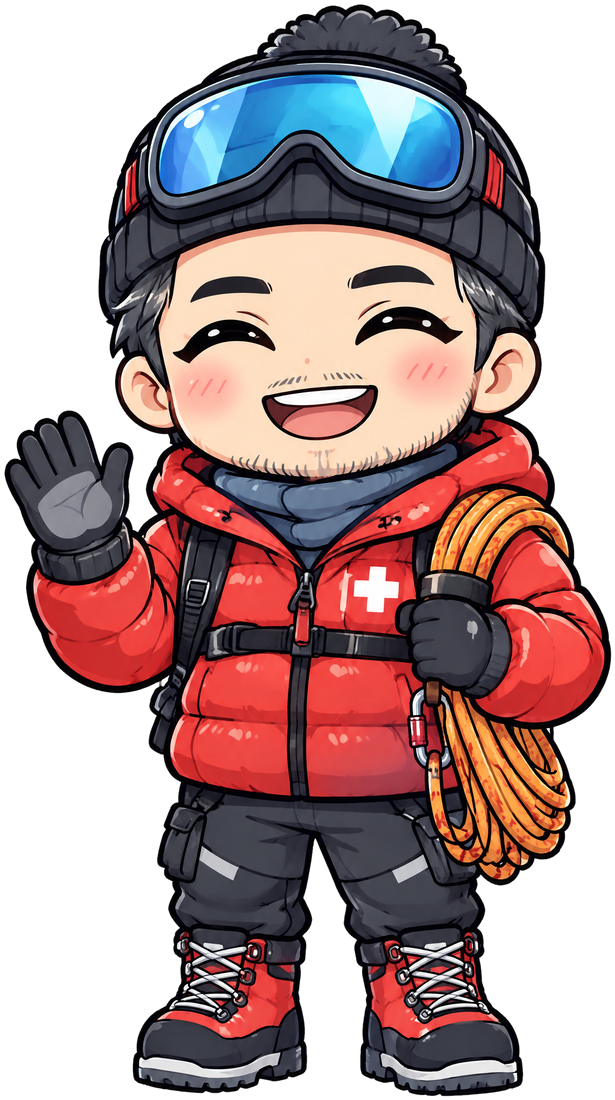
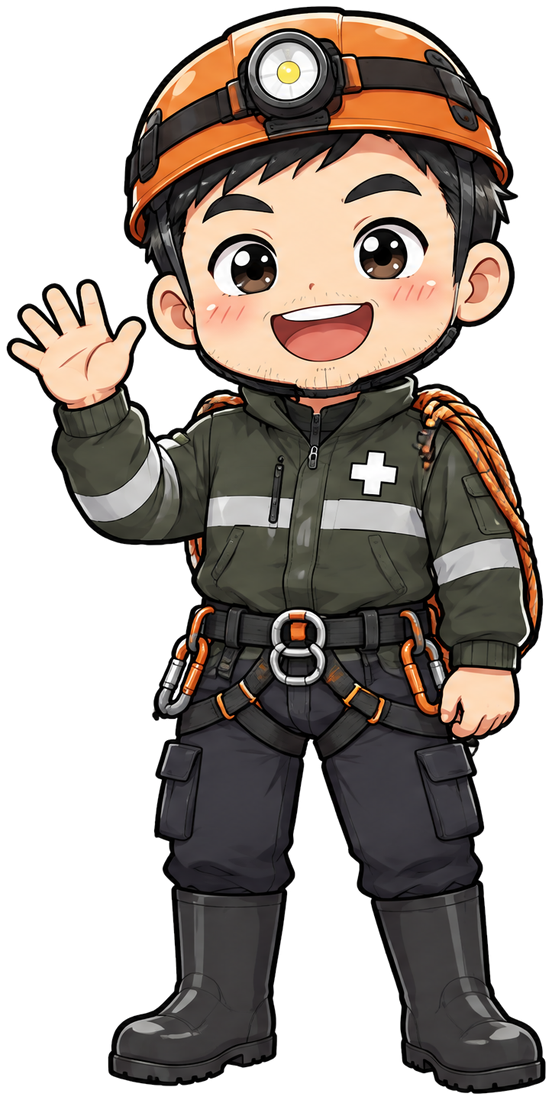
Vẽ lại chú Phong (cứu hộ hang Phong Nha), thầy hiệu trưởng (trường làng Việt Nam) và 9 nền trong địa điểm hợp Việt Nam, khớp bản đồ mới

diff --git a/hoc/KICH-BAN-PHIM-GOI-CLB.md b/hoc/KICH-BAN-PHIM-GOI-CLB.md
@@ -54,8 +54,8 @@ Chỗ cần user duyệt đánh dấu **[DUYỆT]**.
 | 4 Bến sông | **bác Ba** trưởng trạm thủy lợi & bến sông (`ba`): áo bà ba nâu, áo phao cam, nón tai bèo | luồng kênh thông thoáng, điều tiết nước kịp con nước | ghe hàng mắc kẹt, nước tràn làm trôi bè nông sản | thước đo mực nước triều dâng gần vạch đỏ |
 | 5 Nông trại hoa | **chị Lan** chủ vườn (`lan`): nón lá, áo bà ba xanh, ủng vàng, bó hoa bốn màu | hoa kịp chợ Tết | mất vụ Tết | tờ lịch đếm ngược tới Tết |
 | 6 Mỏ đá | **anh Dũng** đội trưởng mỏ (`dung`): mũ vàng có đèn, áo cam, bộ đàm | đường mỏ an toàn trước mùa mưa | thợ gặp nguy, mỏ phải đóng | mây mưa kéo gần dần |
-| 7 Hang động | **chú Phong** đội trưởng cứu hộ hang động (`phong`): áo khoác ấm chữ thập, kính bảo hộ, cuộn dây leo hang | đưa đoàn khảo sát địa chất ra khỏi hang sâu | đoàn kẹt trong vòm hang tối, nước ngầm dâng | pin bộ đàm/đèn của đoàn 80% → 15% |
-| 8 CLB | **thầy hiệu trưởng** (`thay`, lần đầu hiện hình; các mùa trước chỉ thấy thư) | ngày hội robot vẫn diễn ra | thị trấn kẹt sau bão | giờ khai mạc |
+| 7 Hang động | **chú Phong** đội trưởng cứu hộ hang động Phong Nha (`phong`): mũ leo hang cam có đèn, áo cứu hộ xanh rêu sọc phản quang chữ thập trắng, đai leo móc khoá, cuộn dây, ủng cao su (vẽ lại 1/11, bỏ áo phao đỏ + kính trượt tuyết của mùa núi tuyết cũ) | đưa đoàn khảo sát địa chất ra khỏi hang sâu | đoàn kẹt trong vòm hang tối, nước ngầm dâng | pin bộ đàm/đèn của đoàn 80% → 15% |
+| 8 CLB | **thầy hiệu trưởng** (`thay`, lần đầu hiện hình; các mùa trước chỉ thấy thư): thầy hiệu trưởng trường làng Việt Nam ~60 tuổi, tóc muối tiêu, kính tròn, sơ mi trắng cộc tay cài bút, quần âu xanh than, dép quai hậu; dáng `a` / `b` vẫy tay, `b` cầm loa tay đỏ (vẽ lại 1/11) | ngày hội robot vẫn diễn ra | thị trấn kẹt sau bão | giờ khai mạc |
 
 **Biểu cảm theo nhịp mùa (31/10, TopView, đã tách nền, cao 1100 px):** `public/nguoi/<tên>-<dáng>.png`, dáng theo "Nhịp một mùa" ở trên:
 `nghi` (gói 1–2, khoanh tay nhướng mày) · `ngac-nhien` (gói 3–4) · `hoang` (gói 6 "Ấy chết!") · `tin` (gói 7, chỉ tay giao việc) · `sot-ruot` (gói 9, nhìn đồng hồ riêng của mùa: đồng hồ đeo tay, kim áp suất, lịch, thước nước, mây mưa, pin bộ đàm) · `mung` (gói 10, nhảy cẫng, nước mắt vui).
